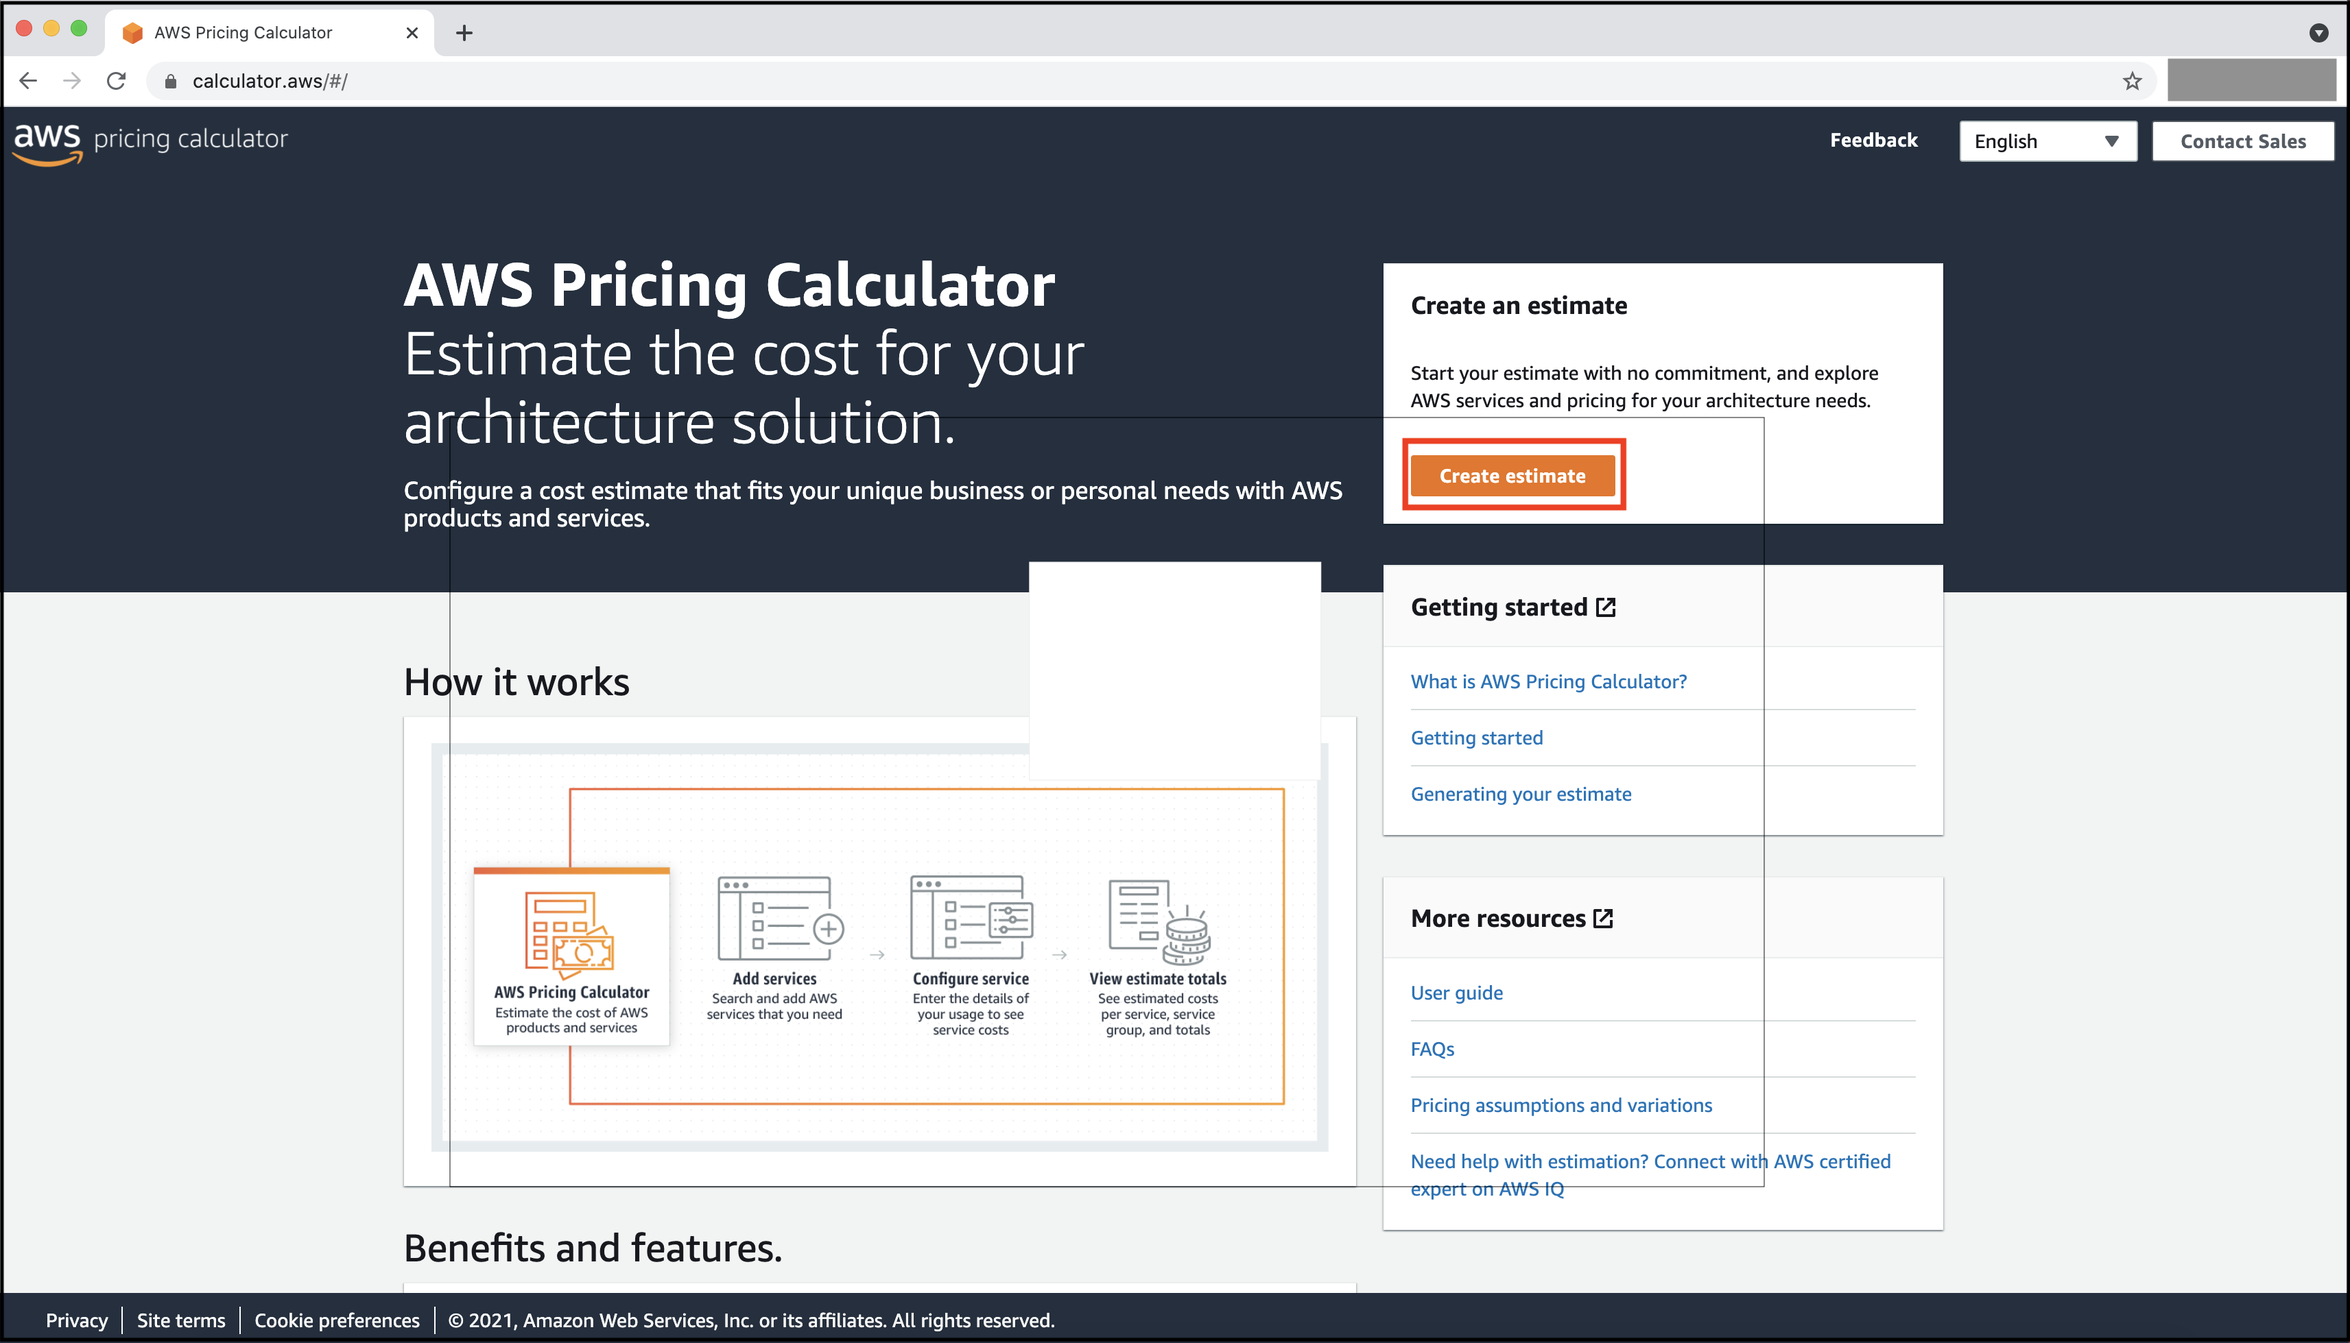
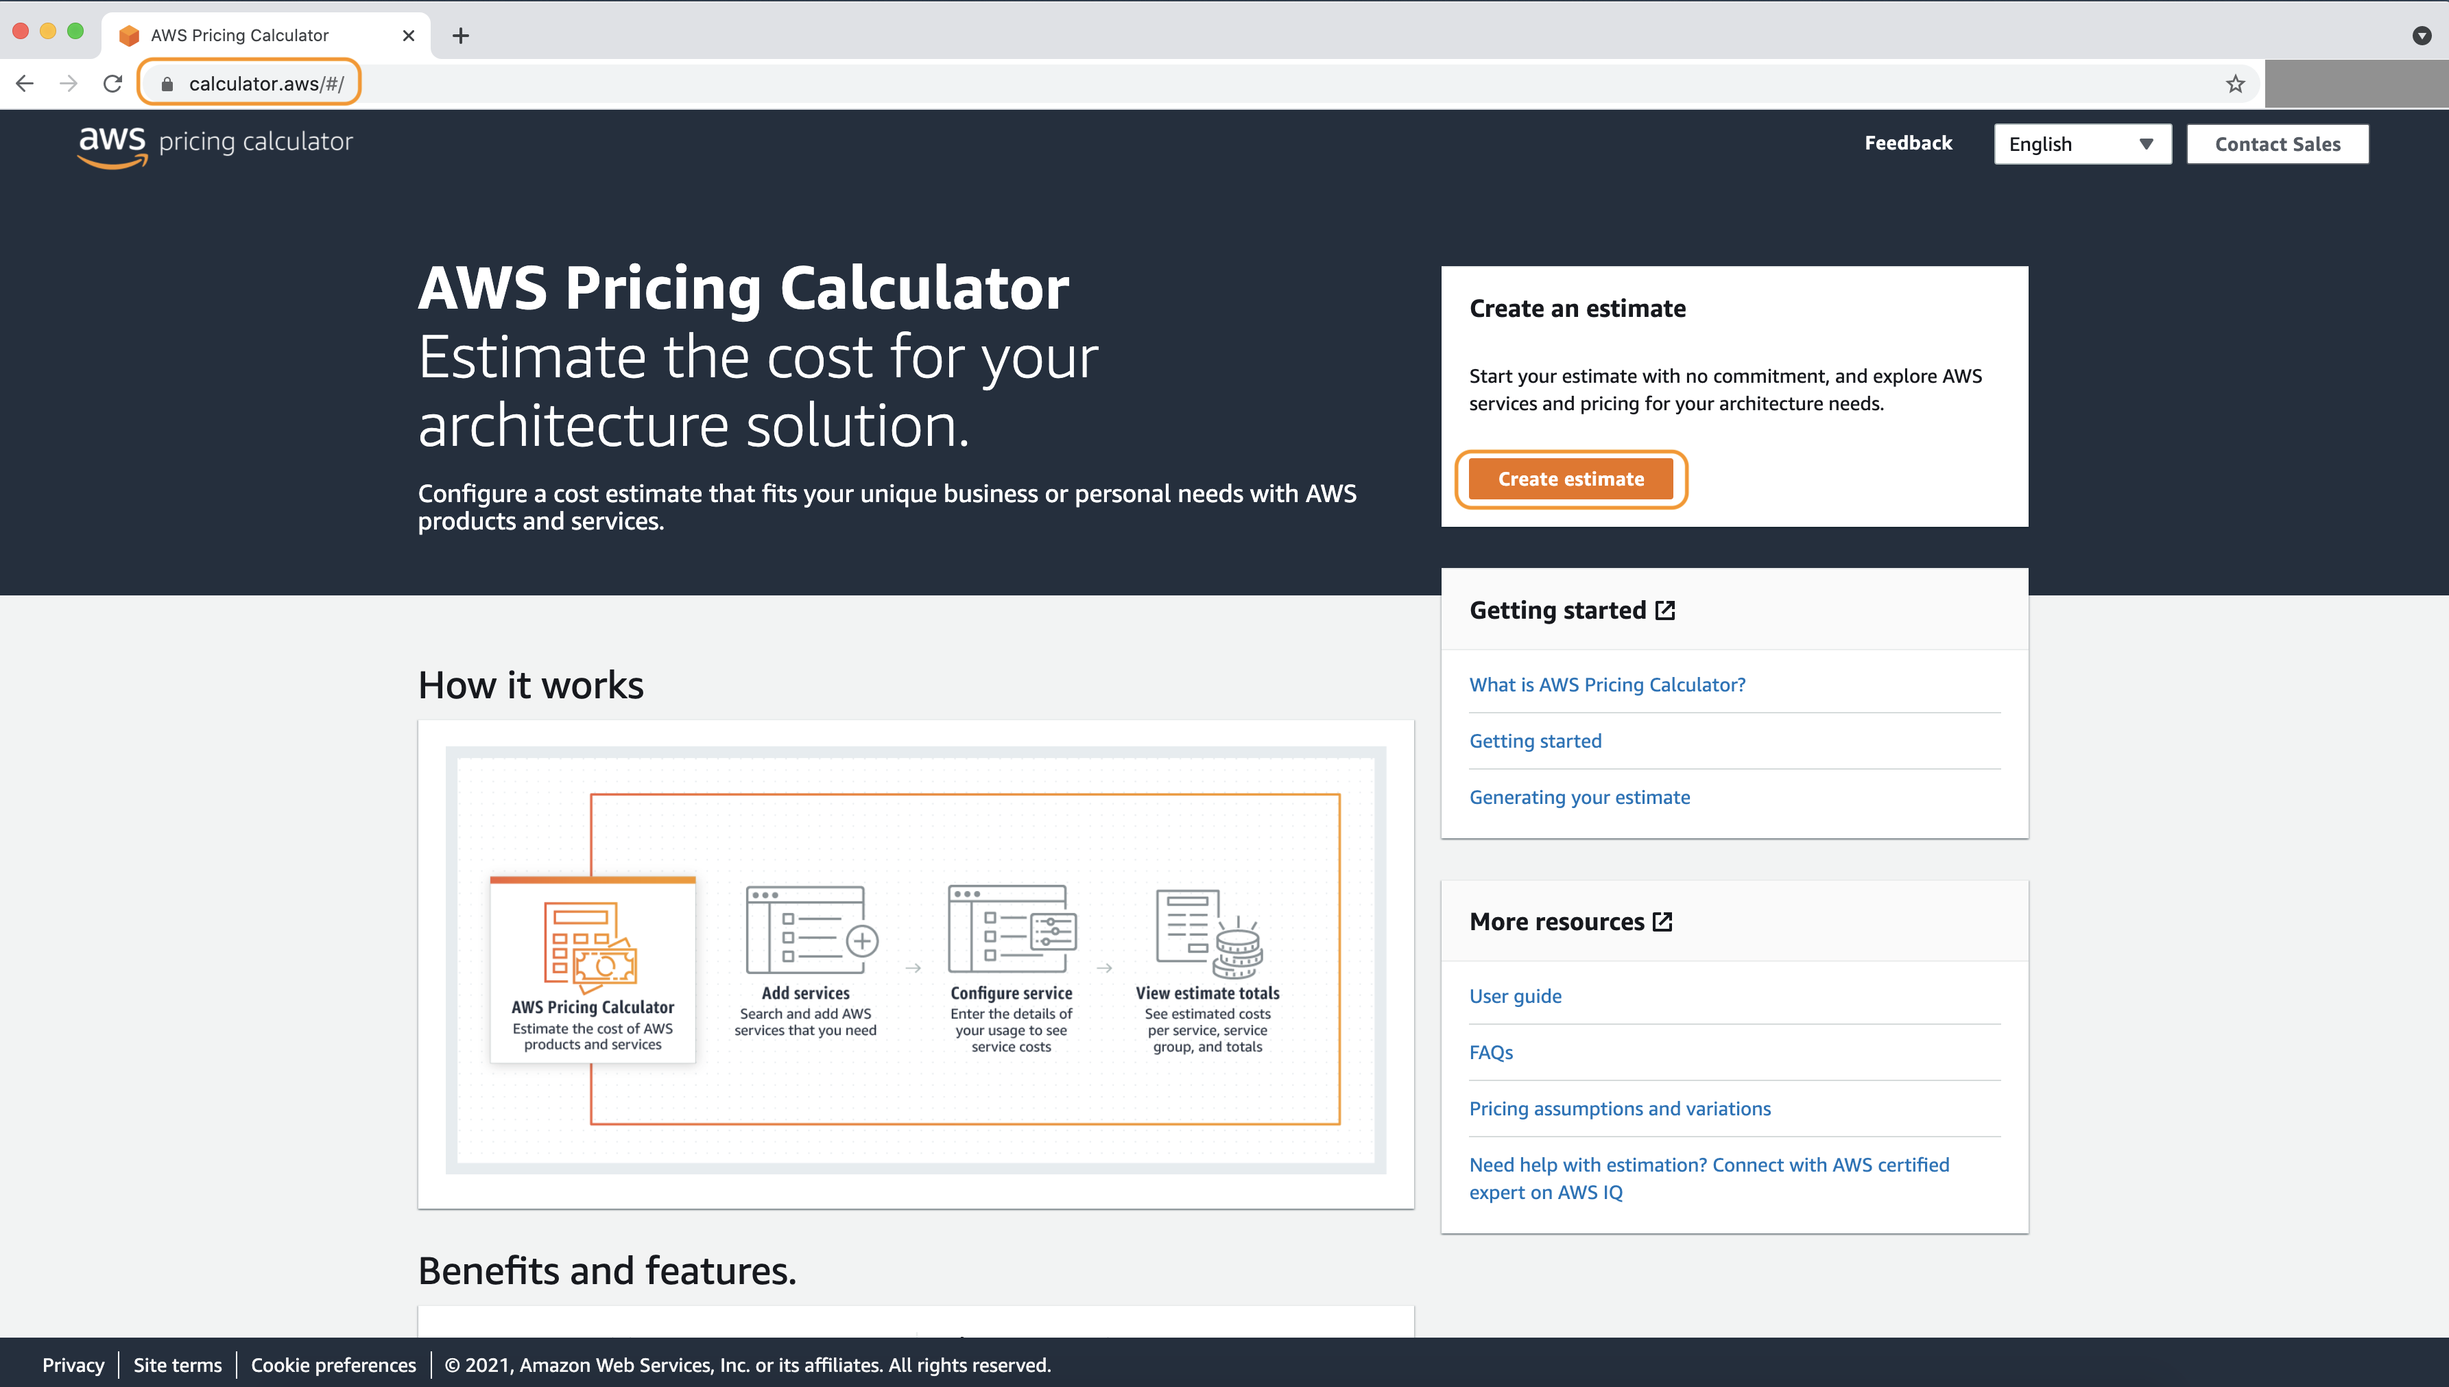
1. used orange rounded boxes instead of red. 2. used in-built mechanism to add black orders

diff --git a/content/Cost/100_Labs/100_Cost_Estimation/2_add_and_configure_services.md b/content/Cost/100_Labs/100_Cost_Estimation/2_add_and_configure_services.md
@@ -11,12 +11,12 @@ Lets take the case of a customer facing Web Application. This general purpose wo
 
 A simple 3 tier LAMP (**L**inux **A**pache **M**ySQL **P**HP) stack based Web Application on AWS uses Amazon Application Load balancer, Amazon EC2, Amazon RDS MySQL (Relational Database Service). We will now add and configure these 3 services in the Pricing Calculator. 
 
-![Images/CostEstimation01.png](/Cost/100_Cost_Estimation/Images/CostEstimation01.png)
+![Images/CostEstimation01.png](/Cost/100_Cost_Estimation/Images/CostEstimation01.png?classes=lab_picture_small)
 
 ## Add Load Balancer
 1. On the Add Service page, choose **Elastic Load Balancing** by clicking **Configure** on that tile. You can also use the search bar by typing **Load Balancer** to narrow down the results. 
 
-![Images/CostEstimation01.png](/Cost/100_Cost_Estimation/Images/CostEstimation03.png)
+![Images/CostEstimation03.png](/Cost/100_Cost_Estimation/Images/CostEstimation03.png?classes=lab_picture_small)
 
 3. For the **Description** , enter "Load Balancer"
 
@@ -24,11 +24,11 @@ A simple 3 tier LAMP (**L**inux **A**pache **M**ySQL **P**HP) stack based Web Ap
 
 5. In the **Elastic Load Balancing** section, choose **Application Load Balancer**. Also choose **Load Balancer in AWS Region**
 
-![Images/CostEstimation01.png](/Cost/100_Cost_Estimation/Images/CostEstimation04.png)
+![Images/CostEstimation04.png](/Cost/100_Cost_Estimation/Images/CostEstimation04.png?classes=lab_picture_small)
 
 6. In the **Service settings** section, enter "1" for **Number of Application Load Balancers**
 
-![Images/CostEstimation01.png](/Cost/100_Cost_Estimation/Images/CostEstimation05.png)
+![Images/CostEstimation05.png](/Cost/100_Cost_Estimation/Images/CostEstimation05.png?classes=lab_picture_small)
 
 7. In the **Load Balancer Capacity Units (LCUs)** section:
 * Skip **Processed bytes (Lambda functions as targets)** since we are using EC2 instances 
@@ -38,22 +38,22 @@ A simple 3 tier LAMP (**L**inux **A**pache **M**ySQL **P**HP) stack based Web Ap
 * For **Average number of requests per second per ALB** enter "400" 
 * Rules determine how the load balancer routes requests. For example, the default rule only routes HTTP traffic on port 80 to the EC2 instances (targets). Enter "20" for **Average number of rule evaluations per request**
 
-![Images/CostEstimation01.png](/Cost/100_Cost_Estimation/Images/CostEstimation06.png)
+![Images/CostEstimation06.png](/Cost/100_Cost_Estimation/Images/CostEstimation06.png?classes=lab_picture_small)
 
 8. Click on **Add to my estimate**
 
-![Images/CostEstimation01.png](/Cost/100_Cost_Estimation/Images/CostEstimation07.png)
+![Images/CostEstimation07.png](/Cost/100_Cost_Estimation/Images/CostEstimation07.png?classes=lab_picture_small)
 
-![Images/CostEstimation01.png](/Cost/100_Cost_Estimation/Images/CostEstimation08.png)
+![Images/CostEstimation08.png](/Cost/100_Cost_Estimation/Images/CostEstimation08.png?classes=lab_picture_small)
 
 ## Add EC2  
 1. On the My Estimate page, click on **Add Service**. 
 
-![Images/CostEstimation01.png](/Cost/100_Cost_Estimation/Images/CostEstimation08.png)
+![Images/CostEstimation09.png](/Cost/100_Cost_Estimation/Images/CostEstimation09.png?classes=lab_picture_small)
 
 2. Choose **EC2** by clicking **Configure** on that tile. You can also use the search bar by typing **EC2** to narrow down the results. 
 
-![Images/CostEstimation02](/Cost/100_Cost_Estimation/Images/CostEstimation10.png)
+![Images/CostEstimation10](/Cost/100_Cost_Estimation/Images/CostEstimation10.png?classes=lab_picture_small)
 
 3. For the Description , enter “EC2”. Leave the default value for **Region** to be **US West (Oregon)** 
 
@@ -61,7 +61,7 @@ A simple 3 tier LAMP (**L**inux **A**pache **M**ySQL **P**HP) stack based Web Ap
 
 5. In the **EC2 instance specifications** section, choose **Linux** for the Operating system
 
-![Images/CostEstimation02](/Cost/100_Cost_Estimation/Images/CostEstimation11.png)
+![Images/CostEstimation11](/Cost/100_Cost_Estimation/Images/CostEstimation11.png?classes=lab_picture_small)
 
 6. In the **Workload** section, you can select the pattern that best describes the workload. 
 * Choose **Daily spike traffic**
@@ -70,16 +70,16 @@ A simple 3 tier LAMP (**L**inux **A**pache **M**ySQL **P**HP) stack based Web Ap
 * Enter **1** for the Baseline and **2** for the Peak, indicating that this workload requires 1 instance at normal times and 2 instances during peak.
 * Leave the default value - 8 hrs and 30 min for Duration of peak
 
-![Images/CostEstimation02](/Cost/100_Cost_Estimation/Images/CostEstimation12.png)
+![Images/CostEstimation12](/Cost/100_Cost_Estimation/Images/CostEstimation12.png?classes=lab_picture_small)
 
 7. In the **EC2 Instances** section, you can choose the instance needed for this workload. Given that this is a spiky workload, the t instance family is a good fit. 
 * Choose **t4g.small** , which has the requires 2 vCPU, 2 GB RAM 
 
-![Images/CostEstimation02](/Cost/100_Cost_Estimation/Images/CostEstimation13.png)
+![Images/CostEstimation13](/Cost/100_Cost_Estimation/Images/CostEstimation13.png?classes=lab_picture_small)
 
 8. In the **Pricing Strategy** section, you can choose the option that best fits your need. For this example, we will choose **On-Demand**. Once deployed, you can use the [Lab on Pricing Models](https://www.wellarchitectedlabs.com/cost/100_labs/100_3_pricing_models/) to analyze and determine the best Pricing Strategy for this workload.
 
-![Images/CostEstimation02](/Cost/100_Cost_Estimation/Images/CostEstimation14.png)
+![Images/CostEstimation14](/Cost/100_Cost_Estimation/Images/CostEstimation14.png?classes=lab_picture_small)
 
 9. In the **Amazon Elastic Block Storage (EBS)** section, configure the storage required for this workload
 * Choose **gp3** for the storage type
@@ -87,28 +87,28 @@ A simple 3 tier LAMP (**L**inux **A**pache **M**ySQL **P**HP) stack based Web Ap
 * Enter **30** for **Storage amount**
 * Lets chose a daily backup schedule. Choose **Daily** for **Snapshot Frequency** and enter "1" **GB** for **Amount changed per snapshot**
 
-![Images/CostEstimation02](/Cost/100_Cost_Estimation/Images/CostEstimation15.png)
+![Images/CostEstimation15](/Cost/100_Cost_Estimation/Images/CostEstimation15.png?classes=lab_picture_small)
 
 10. In the **Data Transfer** section, you can specify the networking requirements for this workload
 * Enter **50** and **GB per month** for **Inbound Data Transfer**
 * Enter **200** and **GB per month** for **Outbound Data Transfer**
 
-![Images/CostEstimation02](/Cost/100_Cost_Estimation/Images/CostEstimation16.png)
+![Images/CostEstimation16](/Cost/100_Cost_Estimation/Images/CostEstimation16.png?classes=lab_picture_small)
 
 11. Click on **Add to my estimate**
 
-![Images/CostEstimation02](/Cost/100_Cost_Estimation/Images/CostEstimation17.png)
+![Images/CostEstimation17](/Cost/100_Cost_Estimation/Images/CostEstimation17.png?classes=lab_picture_small)
 
-![Images/CostEstimation02](/Cost/100_Cost_Estimation/Images/CostEstimation18.png)
+![Images/CostEstimation18](/Cost/100_Cost_Estimation/Images/CostEstimation18.png?classes=lab_picture_small)
 
 ## Add RDS 
 1. On the My Estimate page, click on **Add Service**. 
 
-![Images/CostEstimation02](/Cost/100_Cost_Estimation/Images/CostEstimation19.png)
+![Images/CostEstimation19](/Cost/100_Cost_Estimation/Images/CostEstimation19.png?classes=lab_picture_small)
 
 2. Choose **RDS for MySQL** by clicking **Configure** on that tile. You can also use the search bar by typing **RDS** to narrow down the results. 
 
-![Images/CostEstimation02](/Cost/100_Cost_Estimation/Images/CostEstimation20.png)
+![Images/CostEstimation20](/Cost/100_Cost_Estimation/Images/CostEstimation20.png?classes=lab_picture_small)
 
 3. For the **Description** , enter "Database". Leave the default value for **Region** to be **US West (Oregon)** 
 
@@ -120,7 +120,7 @@ A simple 3 tier LAMP (**L**inux **A**pache **M**ySQL **P**HP) stack based Web Ap
 * Choose **Multi-AZ** for **Deployment Model**
 * Leave the defaut options for **Pricing model**, **Term** and **Purchase option** 
 
-![Images/CostEstimation02](/Cost/100_Cost_Estimation/Images/CostEstimation21.png)
+![Images/CostEstimation21](/Cost/100_Cost_Estimation/Images/CostEstimation21.png?classes=lab_picture_small)
 
 6. In the section **Storage**:
 * Choose **General Purpose SSD (gp2)** for **Storage for each RDS instance**
@@ -128,13 +128,13 @@ A simple 3 tier LAMP (**L**inux **A**pache **M**ySQL **P**HP) stack based Web Ap
 
 7. For this workload, the default RDS backups are sufficient. You can skip the **Backup** section.
 
-![Images/CostEstimation02](/Cost/100_Cost_Estimation/Images/CostEstimation22.png)
+![Images/CostEstimation22](/Cost/100_Cost_Estimation/Images/CostEstimation22.png?classes=lab_picture_small)
 
 8. Click on **Add to my estimate**
 
-![Images/CostEstimation02](/Cost/100_Cost_Estimation/Images/CostEstimation23.png)
+![Images/CostEstimation23](/Cost/100_Cost_Estimation/Images/CostEstimation23.png?classes=lab_picture_small)
 
-![Images/CostEstimation02](/Cost/100_Cost_Estimation/Images/CostEstimation24.png)
+![Images/CostEstimation24](/Cost/100_Cost_Estimation/Images/CostEstimation24.png?classes=lab_picture_small)
 
 {{< prev_next_button link_prev_url="../1_launch_aws_pricing_calculator/" link_next_url="../3_review_estimate/" />}}
 

diff --git a/content/Cost/100_Labs/100_Cost_Estimation/4_export_estimate.md b/content/Cost/100_Labs/100_Cost_Estimation/4_export_estimate.md
@@ -8,19 +8,19 @@ pre: "<b>4. </b>"
 
 On the **My Estimate** page, click on the **Action** button
 
-![Images/CostEstimation02](/Cost/100_Cost_Estimation/Images/CostEstimation25.png)
+![Images/CostEstimation25](/Cost/100_Cost_Estimation/Images/CostEstimation25.png?classes=lab_picture_small)
 
 Click on  **Export estimate** 
 
-![Images/CostEstimation02](/Cost/100_Cost_Estimation/Images/CostEstimation26.png)
+![Images/CostEstimation26](/Cost/100_Cost_Estimation/Images/CostEstimation26.png?classes=lab_picture_small)
 
 Click on "OK"
 
-![Images/CostEstimation02](/Cost/100_Cost_Estimation/Images/CostEstimation27.png)
+![Images/CostEstimation27](/Cost/100_Cost_Estimation/Images/CostEstimation27.png?classes=lab_picture_small)
 
 This downloads the estimate as a csv file. You can open the csv using a suitable application such as Excel: 
 
-![Images/CostEstimation02](/Cost/100_Cost_Estimation/Images/CostEstimation28.png)
+![Images/CostEstimation28](/Cost/100_Cost_Estimation/Images/CostEstimation28.png?classes=lab_picture_small)
 ---
 
 

diff --git a/content/Cost/100_Labs/100_Cost_Estimation/5_save_share.md b/content/Cost/100_Labs/100_Cost_Estimation/5_save_share.md
@@ -8,15 +8,17 @@ pre: "<b>5. </b>"
 
 On the **My Estimate** page, click on the **Save and share** button
 
-![Images/CostEstimation02](/Cost/100_Cost_Estimation/Images/CostEstimation29.png)
+![Images/CostEstimation29](/Cost/100_Cost_Estimation/Images/CostEstimation29.png?classes=lab_picture_small)
 
 Review the notice, then click on  **Agree and continue** 
+
+![Images/CostEstimation29_2](/Cost/100_Cost_Estimation/Images/CostEstimation29_2.png?classes=lab_picture_small)
 
 Pricing Calculator saves (for 3 yrs) your estimate and makes it available at the URL in the text box. 
 
 To share the link, click on **Copy public link** and share it. 
 
-![Images/CostEstimation02](/Cost/100_Cost_Estimation/Images/CostEstimation30.png)
+![Images/CostEstimation30](/Cost/100_Cost_Estimation/Images/CostEstimation30.png?classes=lab_picture_small)
 
 {{< prev_next_button link_prev_url="../4_export_estimate/" link_next_url="../6_tear_down/" />}}
 

diff --git a/content/Cost/100_Labs/100_Cost_Estimation/_index.md b/content/Cost/100_Labs/100_Cost_Estimation/_index.md
@@ -9,7 +9,7 @@ hidden: false
 
 
 ## Last Updated
-May 2021
+June 2021
 
 ## Authors
 - Shankar Ramachandran, Principal SA, Cost Optimization
@@ -21,7 +21,7 @@ If you wish to provide feedback on this lab, there is an error, or you want to m
 ## Introduction
 This hands-on lab will guide you through the steps to estimate AWS costs for a sample workload - 3 tier LAMP (**L**inux **A**pache **M**ySQL **P**HP) stack based Web Application. The skills you learn will help you use the AWS Pricing Calculator to estimate costs for your workloads.
 
-![Images/CostEstimation01.png](/Cost/100_Cost_Estimation/Images/CostEstimation01.png)
+![Images/CostEstimation01.png](/Cost/100_Cost_Estimation/Images/CostEstimation01.png?classes=lab_picture_small)
 
 ## Goals
 - Learn how to estimate AWS Costs using AWS Pricing Calculator

diff --git a/content/Cost/100_Labs/100_Cost_Estimation/1_launch_aws_pricing_calculator.md b/content/Cost/100_Labs/100_Cost_Estimation/1_launch_aws_pricing_calculator.md
@@ -11,7 +11,7 @@ Using AWS Pricing Calculator you can explore AWS services and create an estimate
 1. Using the web browser, open AWS Pricing Calculator by clicking on this [link](https://calculator.aws/#/) or pasting the following URL on the address bar: https://calculator.aws/#/
 
 2. Click on **Create Estimate** :
-![Images/CostEstimation02](/Cost/100_Cost_Estimation/Images/CostEstimation02.png)
+![Images/CostEstimation02](/Cost/100_Cost_Estimation/Images/CostEstimation02.png?classes=lab_picture_small)
 
 {{< prev_next_button link_prev_url="../" link_next_url="../2_add_and_configure_services/" />}}
 

diff --git a/content/Cost/100_Labs/100_Cost_Estimation/6_tear_down.md b/content/Cost/100_Labs/100_Cost_Estimation/6_tear_down.md
@@ -11,7 +11,7 @@ There is no tear down required for this lab.
 ## Bonus
 You can deploy a LAMP stack on AWS using the cloudformation template found [here](https://docs.aws.amazon.com/AWSCloudFormation/latest/UserGuide/sample-templates-appframeworks-us-west-2.html). 
 
-![Images/CostEstimation02](/Cost/100_Cost_Estimation/Images/CostEstimation31.png)
+![Images/CostEstimation31](/Cost/100_Cost_Estimation/Images/CostEstimation31.png?classes=lab_picture_small)
 
 {{< prev_next_button link_prev_url="../5_save_share/"  title="Congratulations!" final_step="true" >}}
 {{< /prev_next_button >}}

diff --git a/content/Cost/100_Labs/100_Cost_Estimation/3_review_estimate.md b/content/Cost/100_Labs/100_Cost_Estimation/3_review_estimate.md
@@ -10,7 +10,7 @@ pre: "<b>3. </b>"
 Review the overall costs (for all 3 services) in the **My Estimate** page. Pricing Calculator provides total cost for first 12 months. 
 If needed, you can edit/delete the configuration of the services added by clicking on the **Action** button in each service tile. 
 
-![Images/CostEstimation02](/Cost/100_Cost_Estimation/Images/CostEstimation32.png)
+![Images/CostEstimation25](/Cost/100_Cost_Estimation/Images/CostEstimation32.png?classes=lab_picture_small)
 
 ---
 
